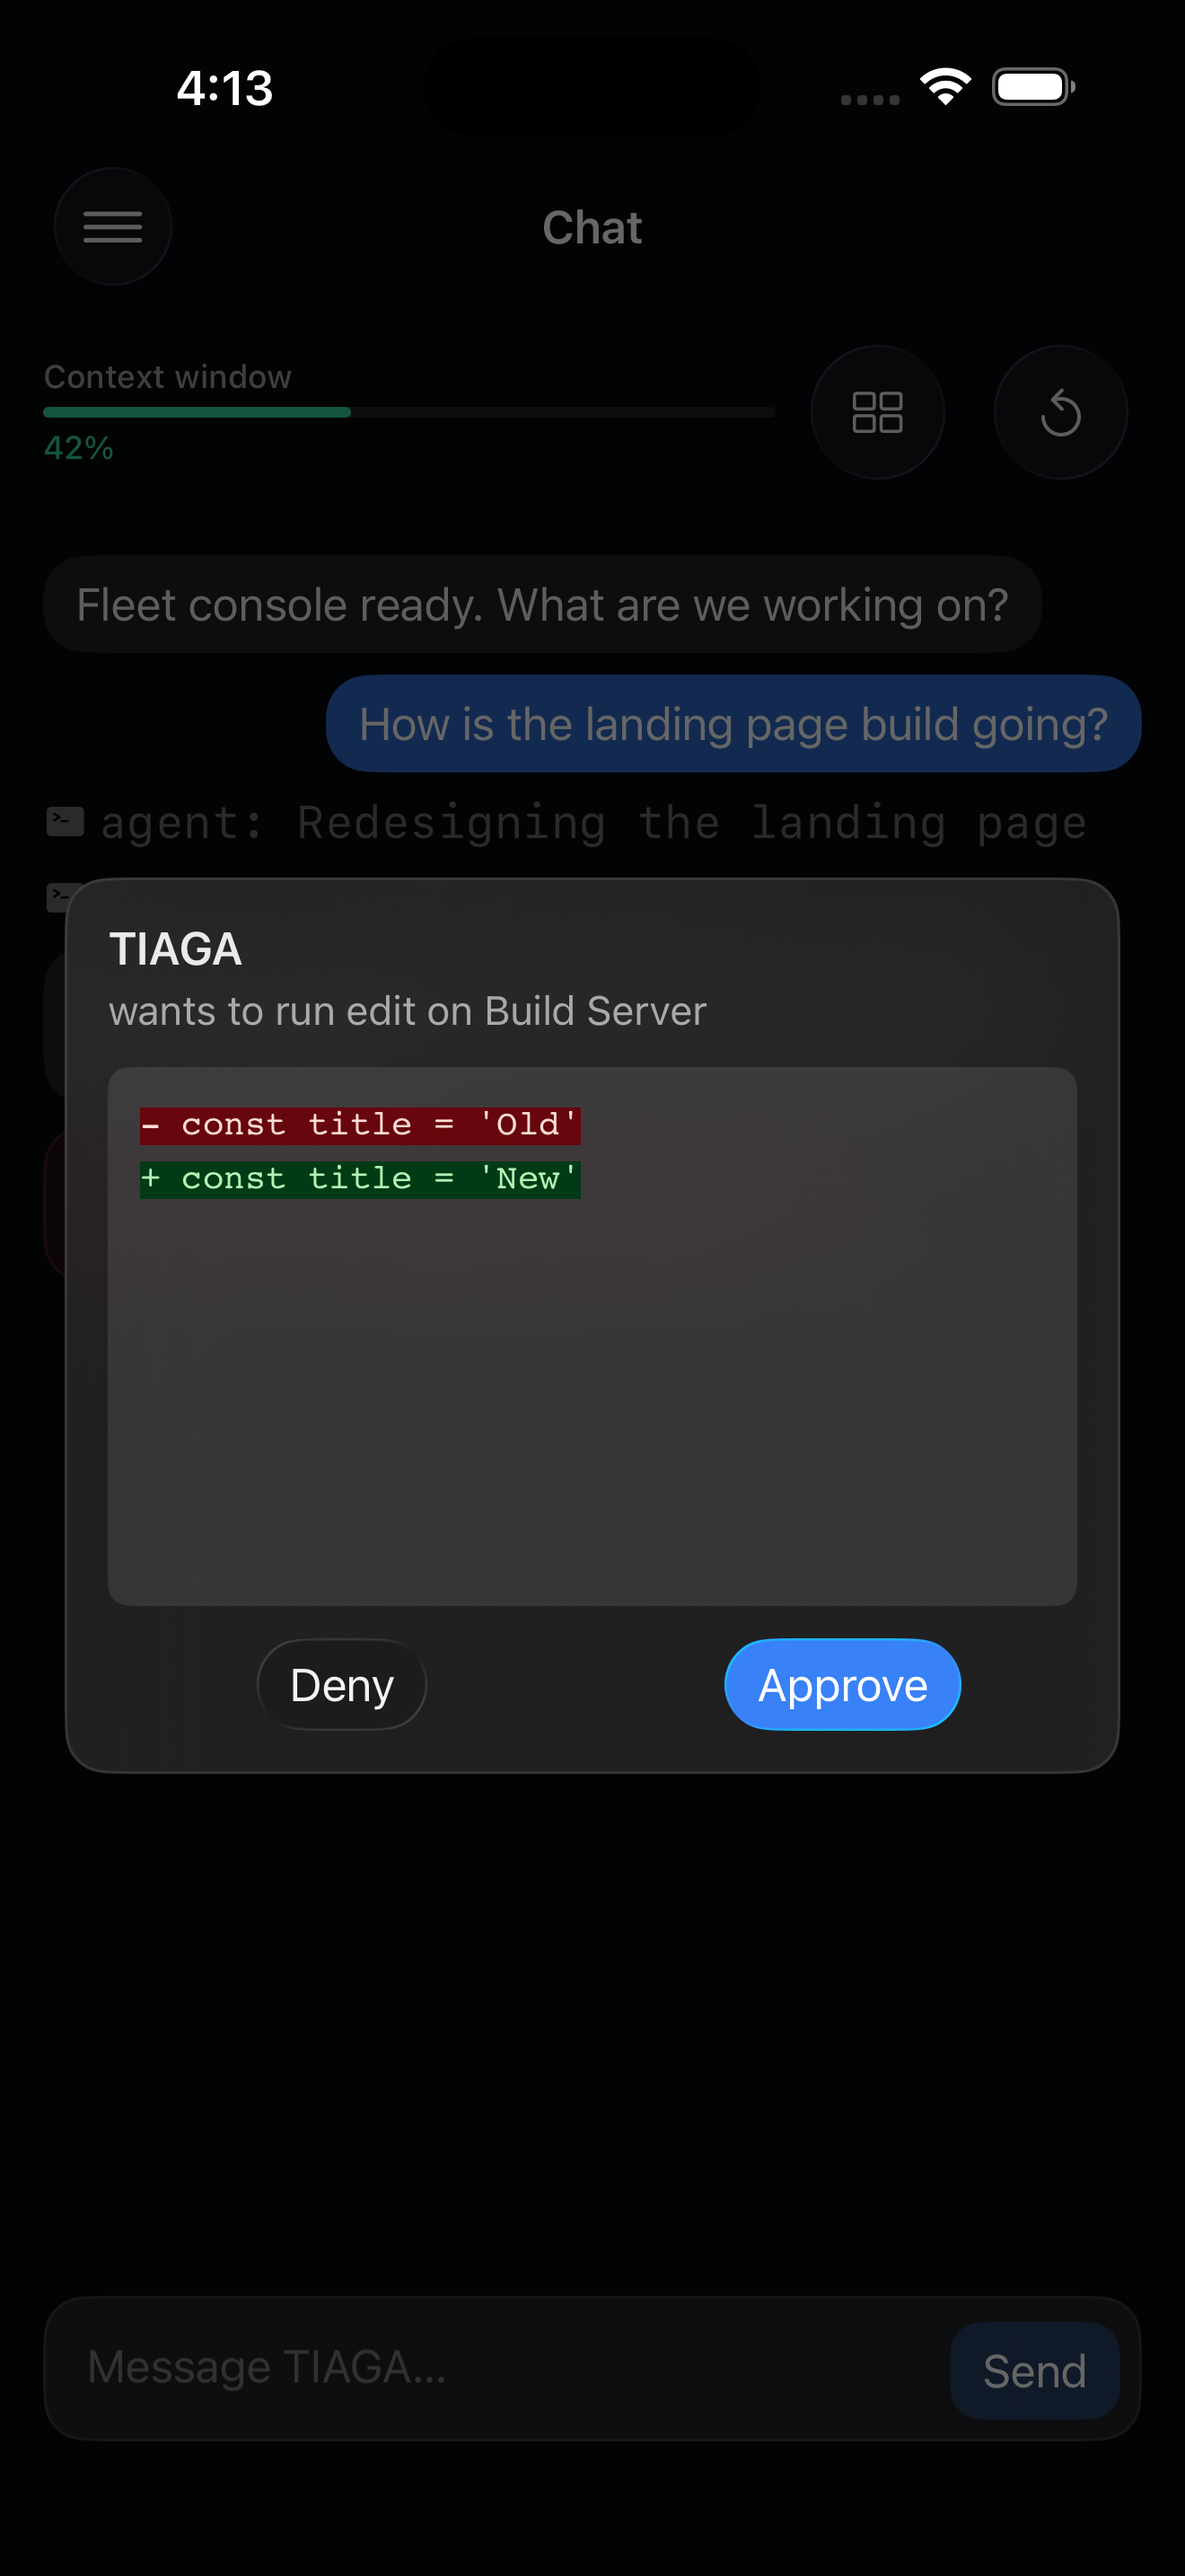
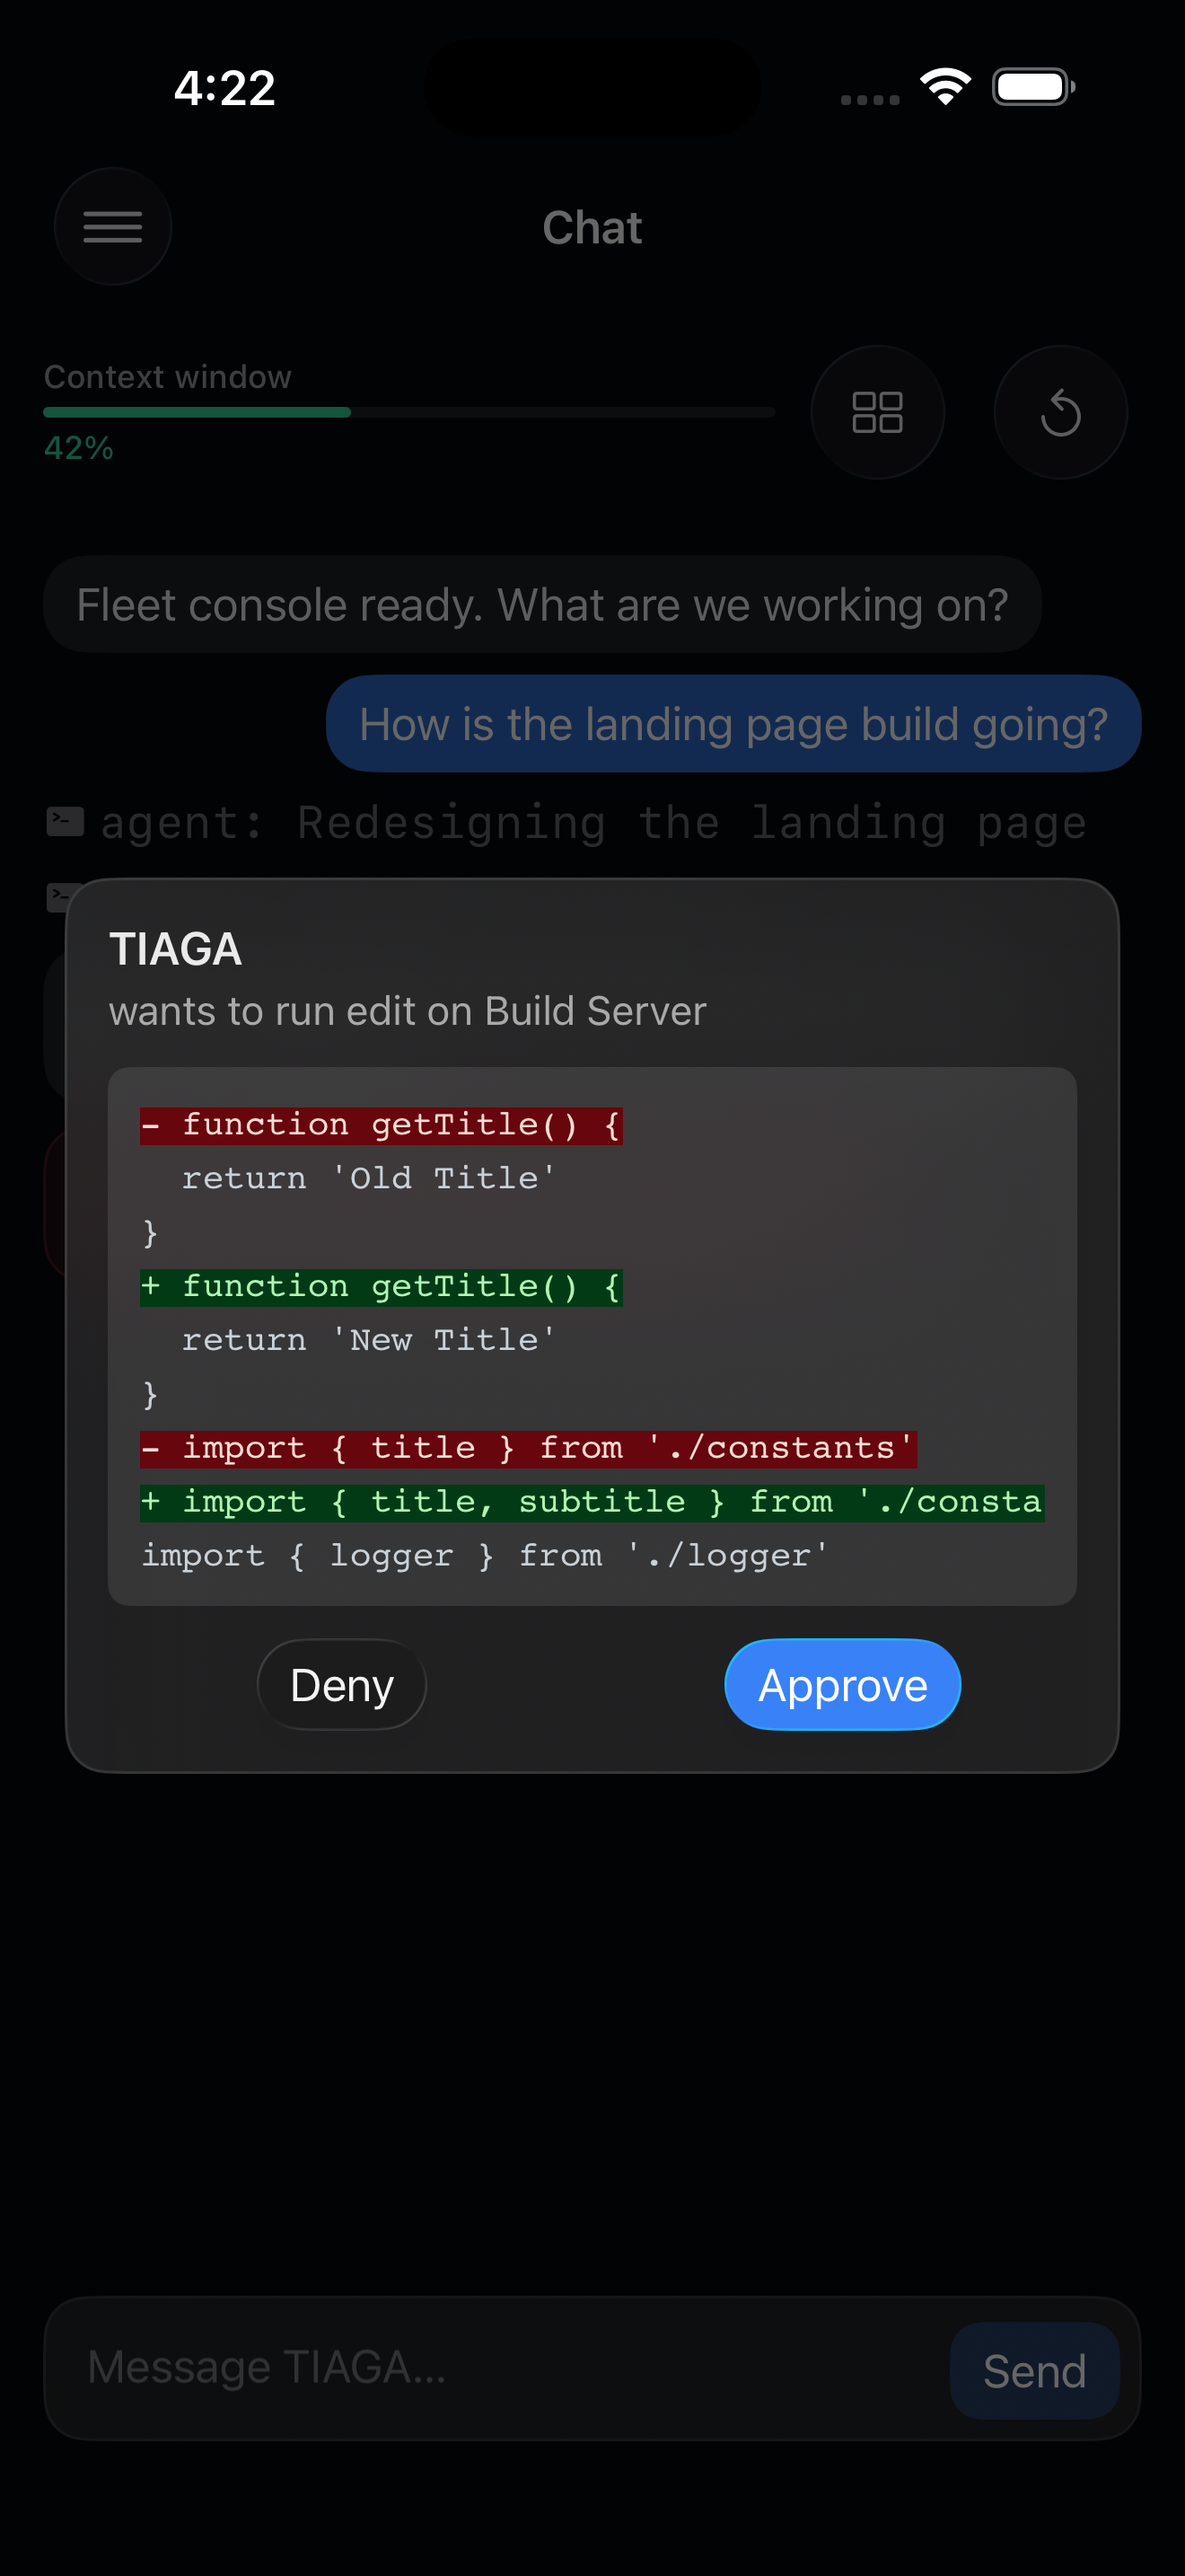
test(permissions): use a multi-line edit in the diff fixture
A one-line change doesn't exercise anything a single-line diff
wouldn't. Replaced it with two edits in the same file, one of them
spanning multiple lines, built the same way the real backend actually
builds this text (PermissionManager.cs's DescribeEdit: each edit
becomes "- {old}\n+ {new}\n" via plain string interpolation) — which
also means only the first line of a multi-line old/new gets the "-"/
"+" prefix and diff-highlight color; continuation lines render
unprefixed. That's a real, faithfully-reproduced quirk of the actual
product, not a shortcut in this fixture.

Verified visually via simctl screenshot (temporarily reordered the
fixture to reach the edit-kind request, then fully reverted the
reorder — only the detail/edits content changed). Full suite passes,
no test changes needed.

Claude-Session: https://claude.ai/code/session_01PDgCH3DMhqM5ZzdKDDgsvg

Changed region(s): [[0.0932, 0.4034, 0.9008, 0.6206], [0.1864, 0.031, 0.2174, 0.0621]]

diff --git a/TIAGA/TIAGA/Data/Repositories/FakePermissionRequestRepository.swift b/TIAGA/TIAGA/Data/Repositories/FakePermissionRequestRepository.swift
@@ -37,11 +37,37 @@ final class FakePermissionRequestRepository: PermissionRequestRepository, @unche
                 tool: "edit",
                 kind: .edit,
                 file: "web/src/App.tsx",
-                detail: "- const title = 'Old'\n+ const title = 'New'",
+                // Matches the real backend's own detail-building exactly
+                // (PermissionManager.cs's DescribeEdit): each edit becomes
+                // "- {old}\n+ {new}\n", concatenated per edit — note only
+                // the FIRST line of a multi-line old/new gets the "-"/"+"
+                // prefix; continuation lines render unprefixed. A one-line
+                // change doesn't exercise that, so this fixture has two
+                // edits, one of them multi-line, to test it honestly.
+                detail: """
+                - function getTitle() {
+                  return 'Old Title'
+                }
+                + function getTitle() {
+                  return 'New Title'
+                }
+                - import { title } from './constants'
+                + import { title, subtitle } from './constants'
+                import { logger } from './logger'
+                """,
                 files: [
                     PermissionRequestFile(
                         path: "web/src/App.tsx",
-                        edits: [PermissionRequestEdit(old: "const title = 'Old'", new: "const title = 'New'")]
+                        edits: [
+                            PermissionRequestEdit(
+                                old: "function getTitle() {\n  return 'Old Title'\n}",
+                                new: "function getTitle() {\n  return 'New Title'\n}"
+                            ),
+                            PermissionRequestEdit(
+                                old: "import { title } from './constants'",
+                                new: "import { title, subtitle } from './constants'\nimport { logger } from './logger'"
+                            ),
+                        ]
                     ),
                 ]
             ),
